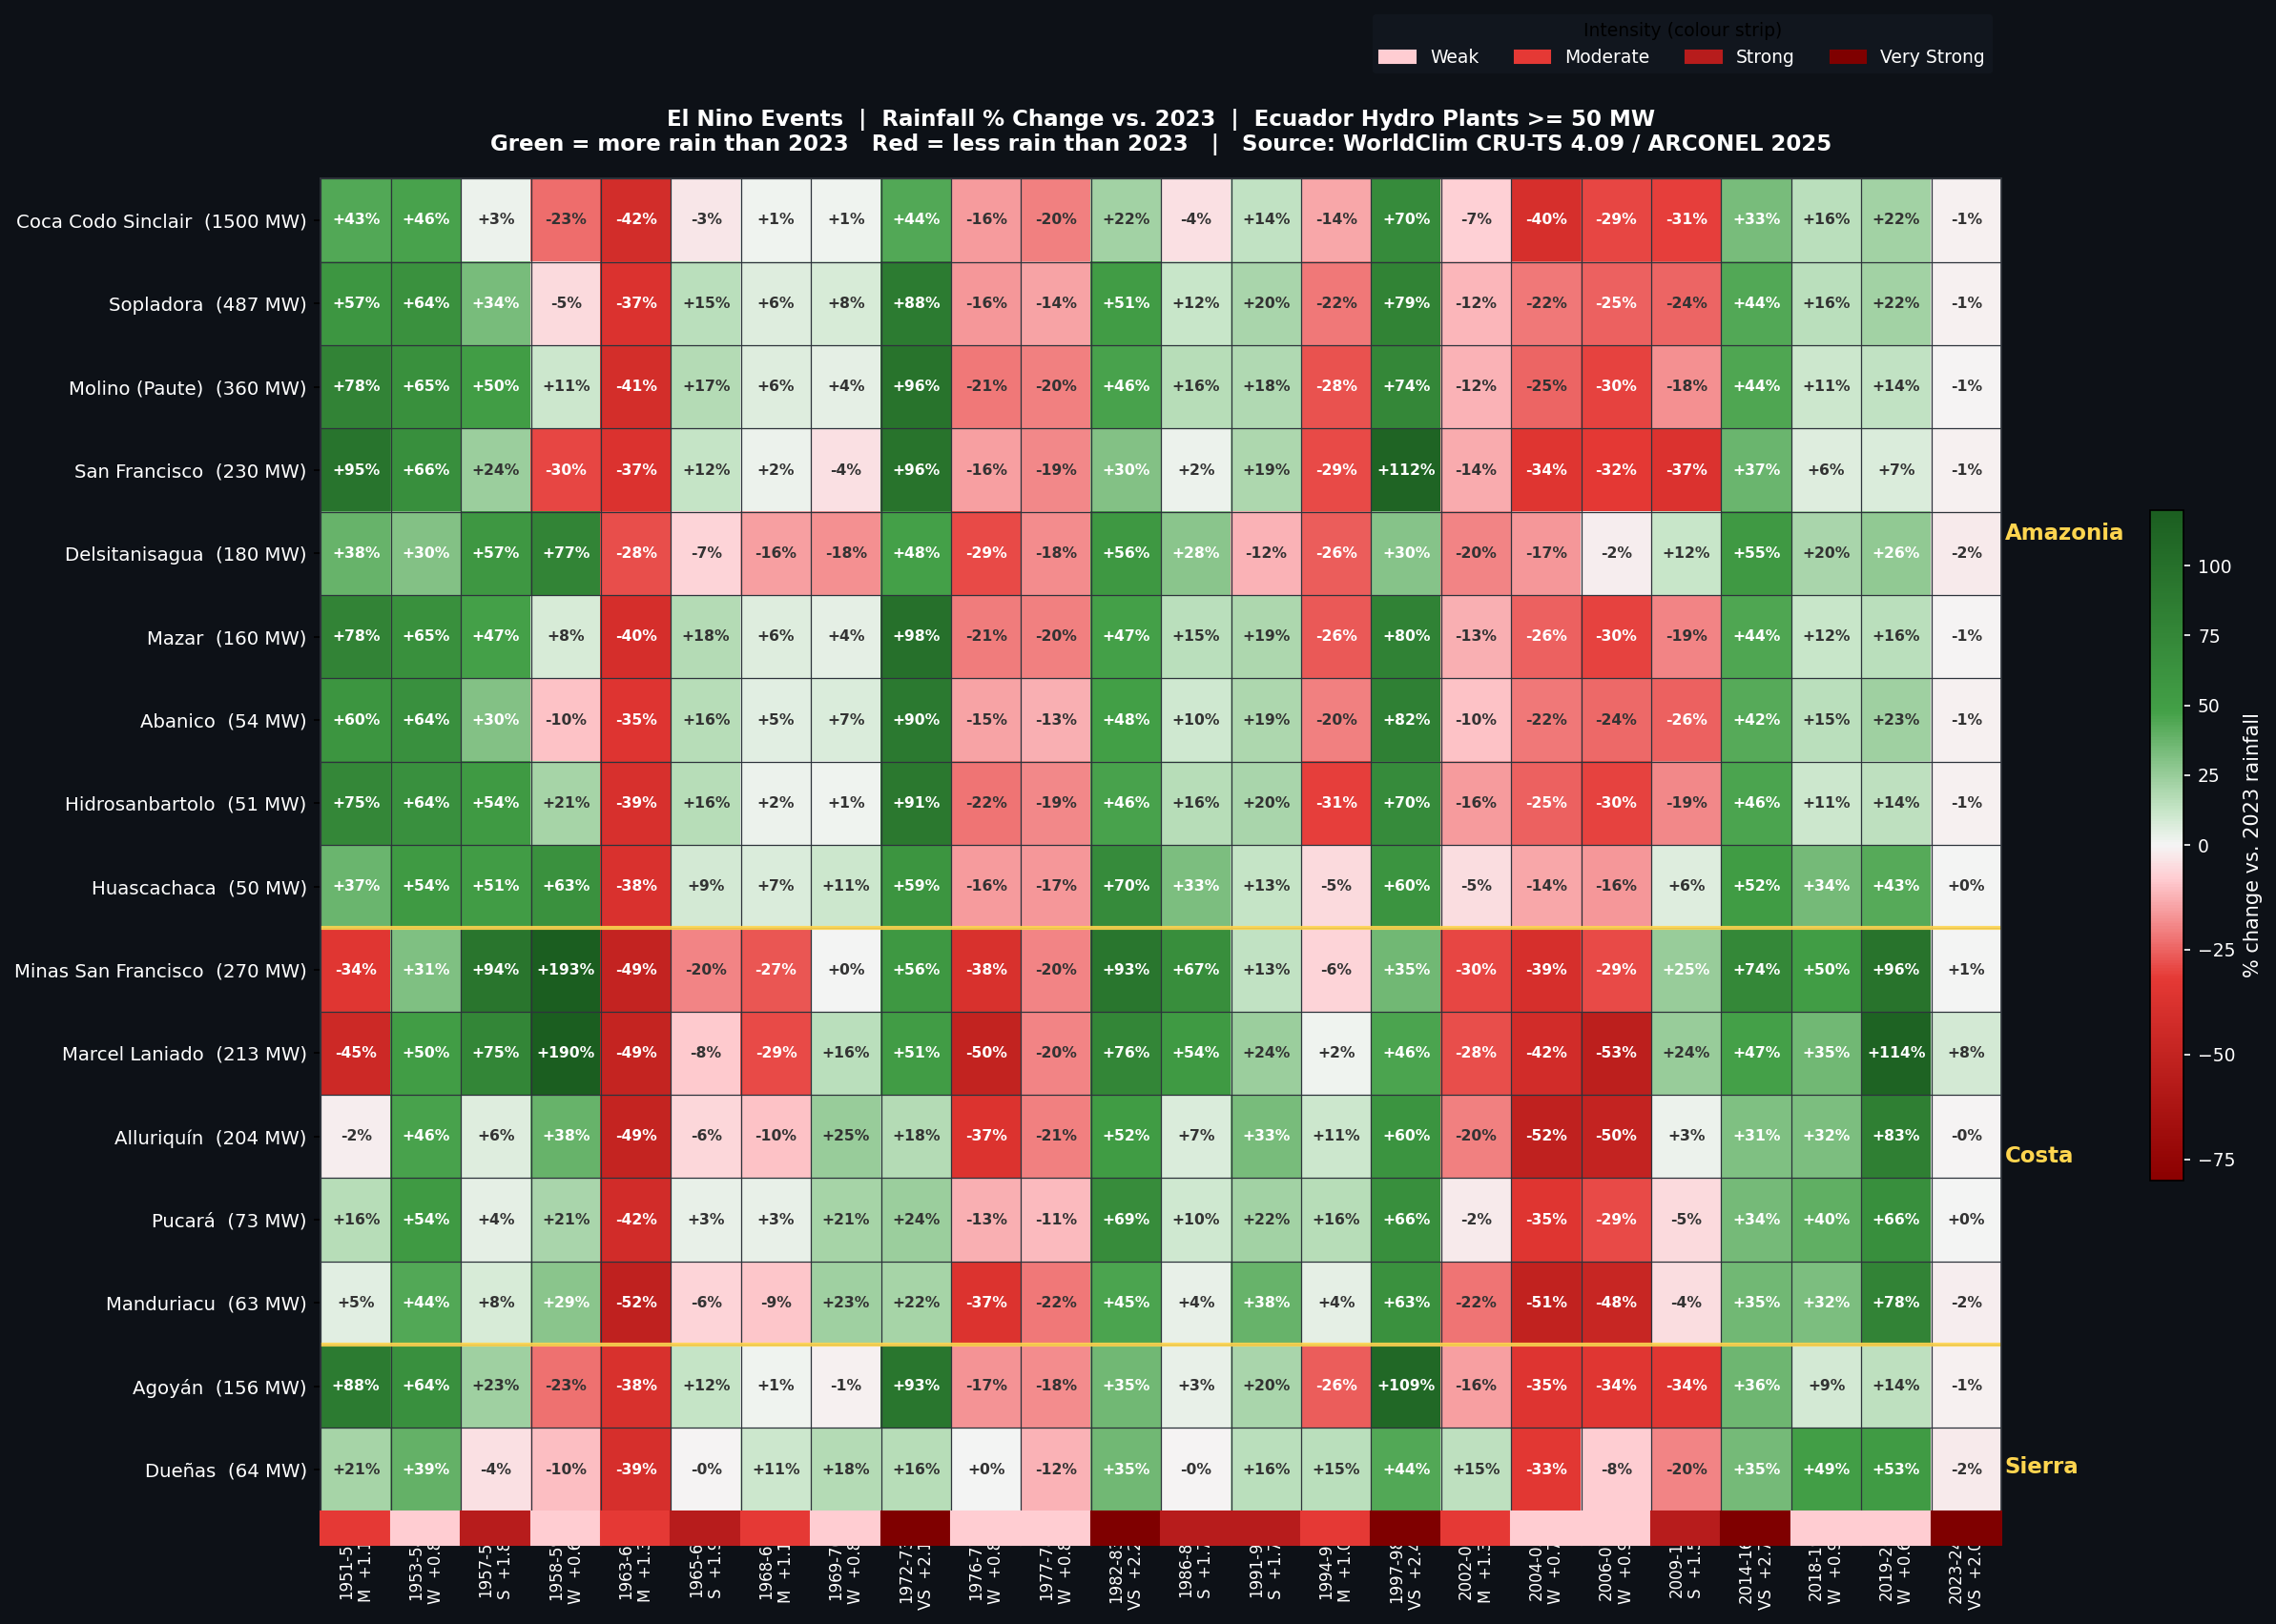
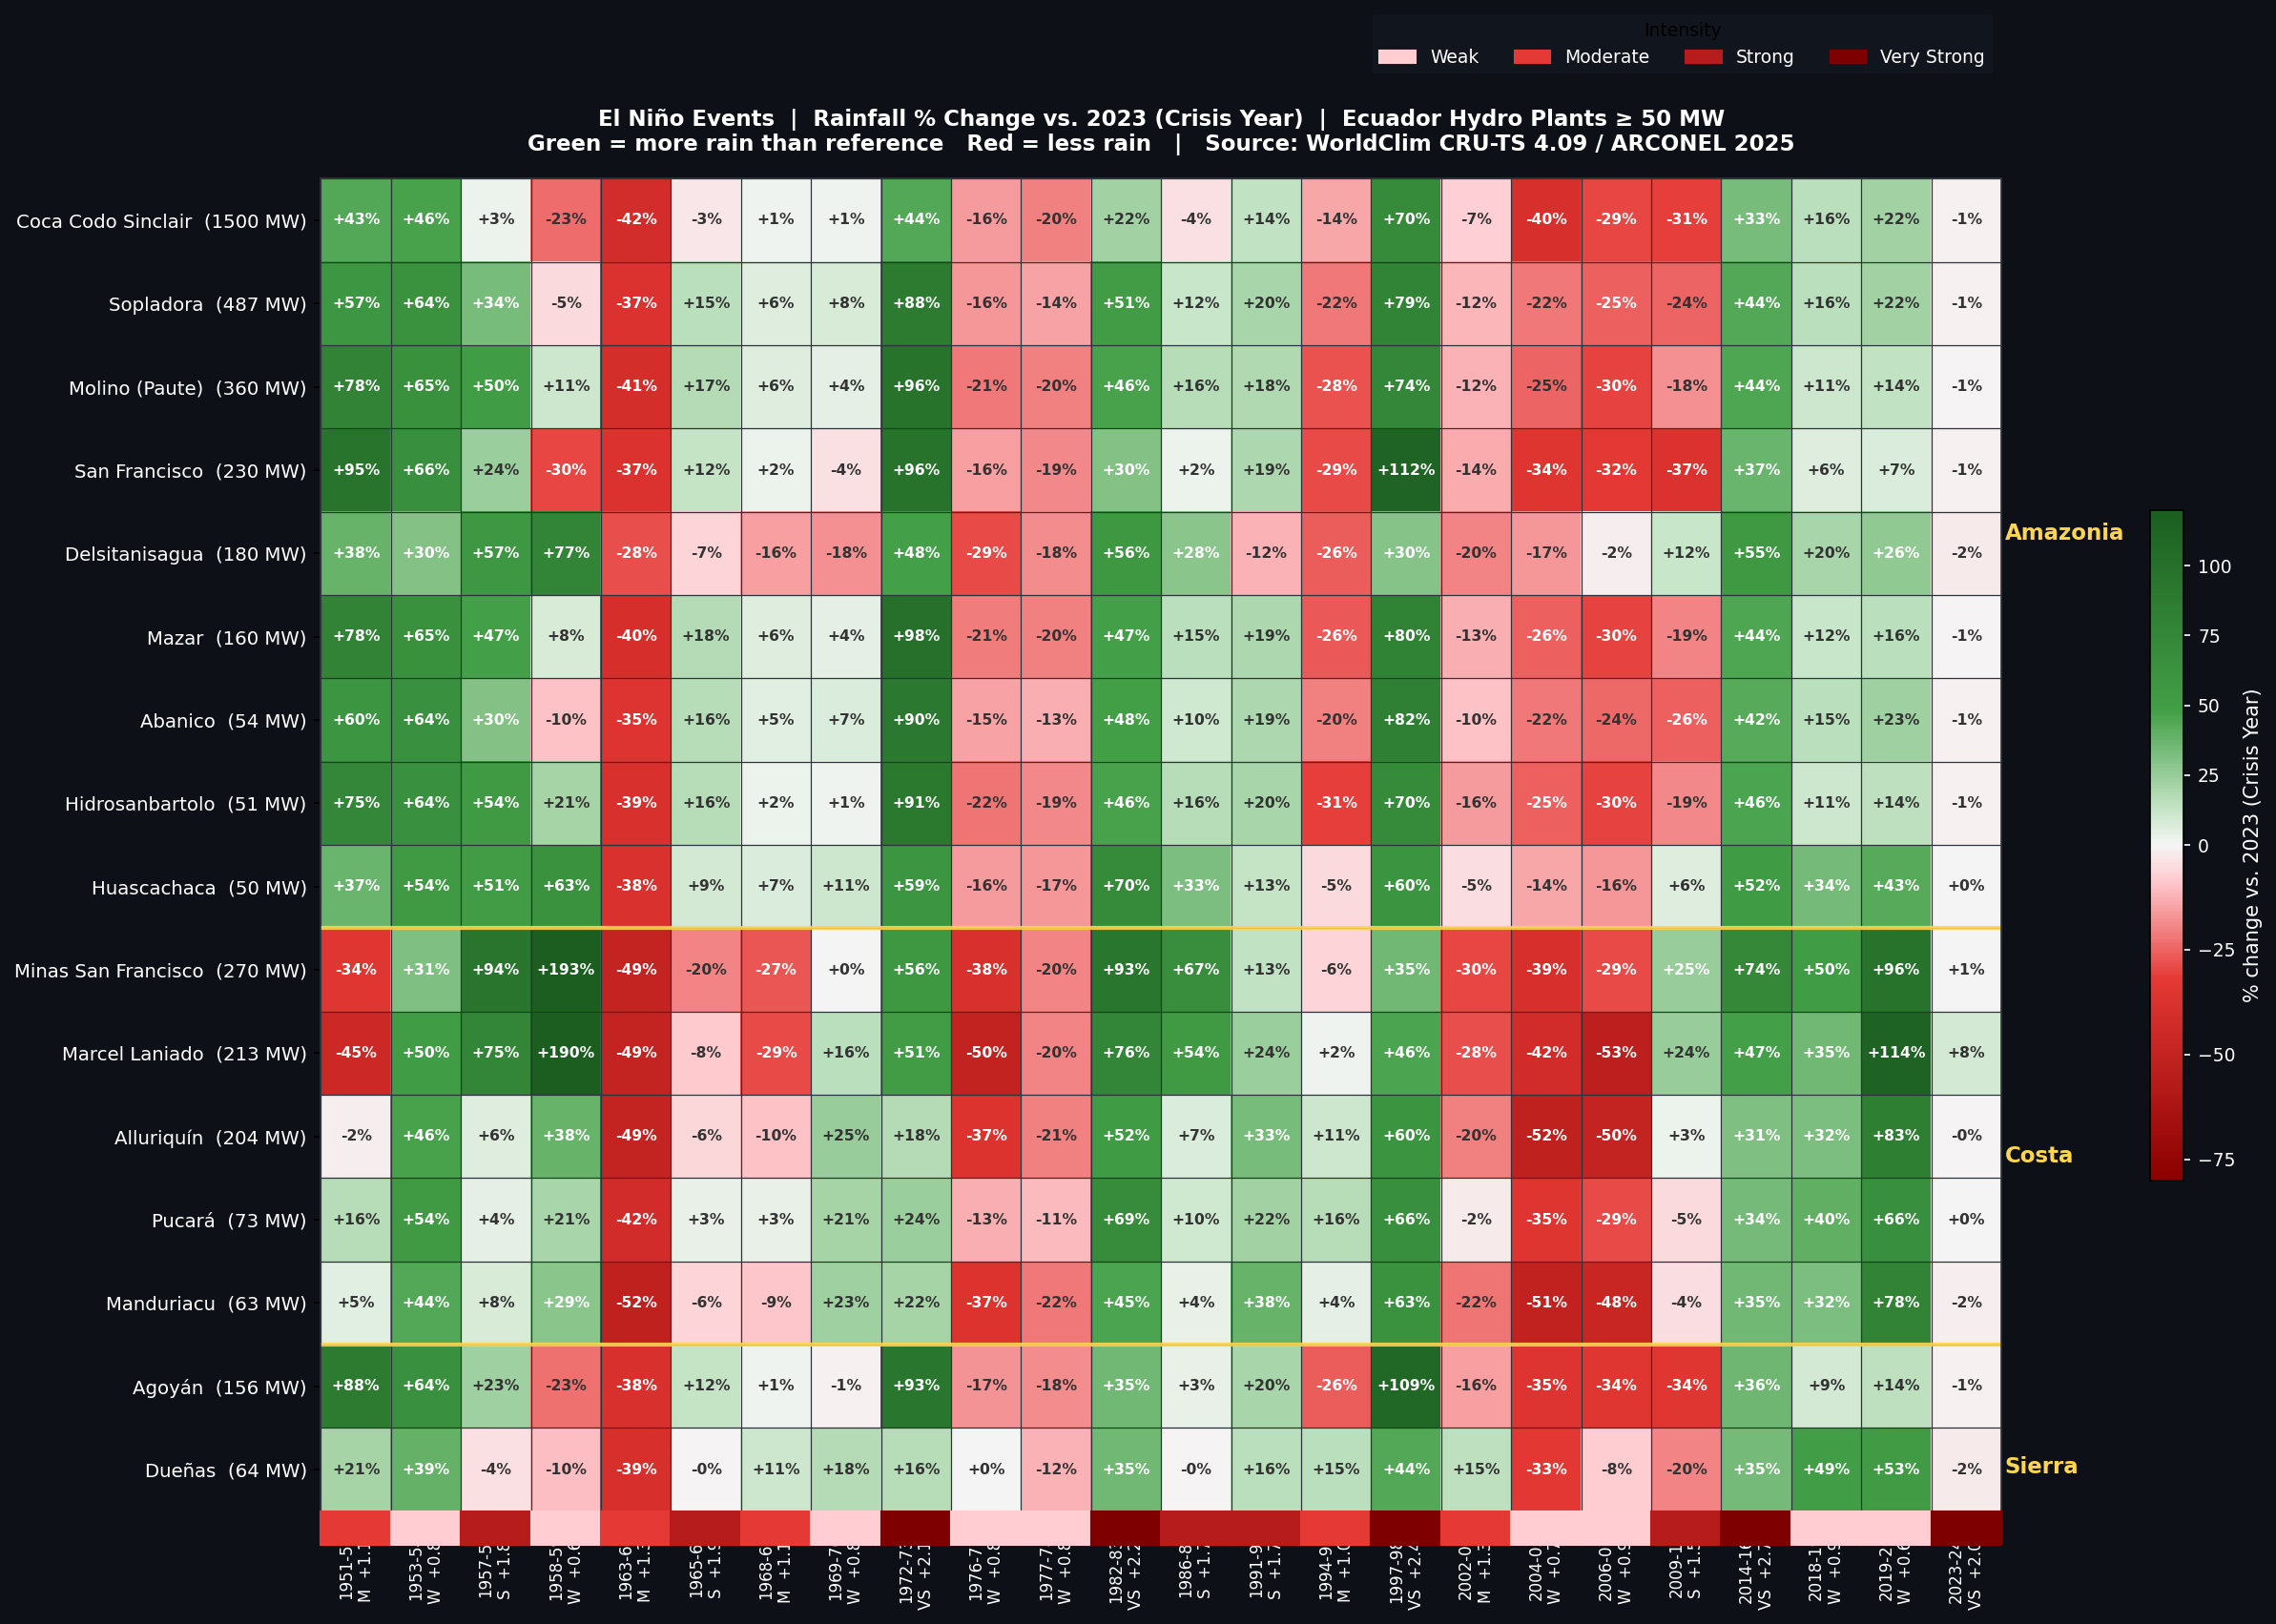
feat(electricidad): 4-toggle heatmap for El Nino + La Nina, MW-weighted stats
- Replace iframe El Nino heatmap with PNG-swap toggle (vs 2023 / 2019 / 2018-23 avg / full avg)
- Add identical toggle to La Nina card
- Update stat boxes to MW-weighted episode counts
- Add Aequus nav (back-to-menu + dashboards dropdown)
- Add 6 new heatmap PNGs (4 El Nino + 4 La Nina, 2 already existed)

Changed region(s): [[0.2171, 0.0622, 0.8064, 0.0934], [0.9614, 0.4357, 0.9925, 0.4979]]

diff --git a/electricidad/index.html b/electricidad/index.html
@@ -103,6 +103,24 @@
     font-weight:300;opacity:.8;
   }
   #lb-close:hover{opacity:1}
+
+  /* ── Heatmap reference toggle ── */
+  .ref-btn{
+    padding:3px 11px;border:none;background:transparent;
+    font-size:10.5px;font-weight:400;color:#777;cursor:pointer;
+    transition:background .15s,color .15s;white-space:nowrap;
+  }
+  .ref-btn:hover{background:#EBEBEB;color:#333}
+  .ref-btn.ref-active{background:#B71C1C;color:#fff;font-weight:500}
+  .ref-btn-ln{
+    padding:3px 11px;border:none;background:transparent;
+    font-size:10.5px;font-weight:400;color:#777;cursor:pointer;
+    transition:background .15s,color .15s;white-space:nowrap;
+  }
+  .ref-btn-ln:hover{background:#EBEBEB;color:#333}
+  .ref-btn-ln.ref-ln-active{background:#1565C0;color:#fff;font-weight:500}
+
+  /* ── Aequus nav ── */
   .ae-nav-home{padding:3px 11px;border-radius:10px;border:1px solid #DDD;font-size:11px;font-weight:500;color:#0f2040;background:#F5F5F5;text-decoration:none;white-space:nowrap;transition:background .12s}
   .ae-nav-home:hover{background:#E0E0E0}
   .ae-nav-dd-wrap{position:relative}
@@ -113,6 +131,7 @@
   .ae-nav-dd a{display:block;padding:9px 16px;font-size:12px;color:#1a2332;text-decoration:none;transition:background .1s}
   .ae-nav-dd a:hover{background:#f0f4fa}
   .ae-nav-dd a.ae-current{font-weight:700;color:#0f2040;background:#e8edf4}
+
 </style>
 </head>
 <body>
@@ -120,7 +139,7 @@
 <!-- ── Navigation ── -->
 <nav id="navbar">
   <a href="../index.html" class="ae-nav-home">&#8592; Menu</a>
-  <div class="ae-nav-dd-wrap">
+  <div class="ae-nav-dd-wrap" style="margin-right:16px">
     <button class="ae-nav-dd-btn" onclick="aeToggleNav(this)">Dashboards &#9660;</button>
     <div class="ae-nav-dd">
       <a href="../homicidios/index.html">&#128506;&#xFE0F; Homicidios Ecuador</a>
@@ -129,7 +148,6 @@
       <a href="../precios-commodities/index.html">&#128722; Diesel y WTI</a>
     </div>
   </div>
-  <div style="width:1px;height:20px;background:#E0E0E0;flex-shrink:0"></div>
   <div class="brand">
     <div class="brand-dot"></div>
     <div>
@@ -178,27 +196,57 @@
   <!-- Ecuador heatmaps -->
   <div id="hmap-ecuador" class="hmap-row">
     <div class="hmap-card">
-      <div class="hmap-header">
-        <span class="hmap-badge badge-en">El Ni&#241;o</span>
-        <div>
-          <div class="hmap-title">Rainfall Change During El Ni&#241;o Events vs. 2023  |  Ecuador Hydro Plants &#8805; 50 MW</div>
-          <div class="hmap-sub">24 events · 1951–2024 · WorldClim CRU-TS 4.09 at plant coordinates · Click to enlarge</div>
+      <div class="hmap-header" style="flex-direction:column;align-items:flex-start;gap:8px;">
+        <div style="display:flex;align-items:center;gap:10px;width:100%;">
+          <span class="hmap-badge badge-en">El Ni&#241;o</span>
+          <div>
+            <div class="hmap-title">Rainfall Change During El Ni&#241;o Events  |  Ecuador Hydro Plants &#8805; 50 MW</div>
+            <div class="hmap-sub">24 events · 1951–2024 · WorldClim CRU-TS 4.09 at plant coordinates · Click to enlarge</div>
+          </div>
+        </div>
+        <div style="display:flex;align-items:center;gap:8px;flex-wrap:wrap;">
+          <span style="font-size:10px;font-weight:500;color:#777;">Reference:</span>
+          <div style="display:flex;background:#F5F5F5;border:1px solid #E0E0E0;border-radius:16px;overflow:hidden;">
+            <button class="ref-btn ref-active" data-ref="2023"    onclick="setHmapRef(this)">vs 2023 (crisis)</button>
+            <button class="ref-btn"            data-ref="2019"    onclick="setHmapRef(this)">vs 2019 (wet year)</button>
+            <button class="ref-btn"            data-ref="avg1823" onclick="setHmapRef(this)">vs 2018–2023 avg</button>
+            <button class="ref-btn"            data-ref="full"    onclick="setHmapRef(this)">vs full sample avg</button>
+          </div>
+        </div>
+        <div style="display:flex;gap:8px;width:100%;align-items:stretch;">
+          <div id="hmap-ref-note" style="font-size:10px;color:#666;background:#FAFAFA;border:1px solid #EBEBEB;border-radius:6px;padding:5px 10px;line-height:1.55;flex:1;"></div>
+          <div id="hmap-ref-stat" style="font-size:10px;color:#444;background:#FAFAFA;border:1px solid #EBEBEB;border-radius:6px;padding:5px 12px;line-height:1.55;white-space:nowrap;text-align:center;display:flex;flex-direction:column;justify-content:center;gap:1px;flex-shrink:0;"></div>
         </div>
       </div>
       <div class="hmap-img-wrap">
-        <img class="hmap-img" src="figures/heatmap_elnino_vs_2023.png" alt="Ecuador El Nino heatmap" title="Click to enlarge"/>
+        <img class="hmap-img" id="elnino-hmap-img" src="figures/heatmap_elnino_vs_2023.png" alt="Ecuador El Nino heatmap" title="Click to enlarge"/>
       </div>
     </div>
     <div class="hmap-card">
-      <div class="hmap-header">
-        <span class="hmap-badge badge-ln">La Ni&#241;a</span>
-        <div>
-          <div class="hmap-title">Rainfall Change During La Ni&#241;a Events vs. 2023  |  Ecuador Hydro Plants &#8805; 50 MW</div>
-          <div class="hmap-sub">18 events · 1951–2023 · WorldClim CRU-TS 4.09 at plant coordinates · Click to enlarge</div>
+      <div class="hmap-header" style="flex-direction:column;align-items:flex-start;gap:8px;">
+        <div style="display:flex;align-items:center;gap:10px;width:100%;">
+          <span class="hmap-badge badge-ln">La Ni&#241;a</span>
+          <div>
+            <div class="hmap-title">Rainfall Change During La Ni&#241;a Events  |  Ecuador Hydro Plants &#8805; 50 MW</div>
+            <div class="hmap-sub">18 events · 1951–2024 · WorldClim CRU-TS 4.09 at plant coordinates · Click to enlarge</div>
+          </div>
+        </div>
+        <div style="display:flex;align-items:center;gap:8px;flex-wrap:wrap;">
+          <span style="font-size:10px;font-weight:500;color:#777;">Reference:</span>
+          <div style="display:flex;background:#F5F5F5;border:1px solid #E0E0E0;border-radius:16px;overflow:hidden;">
+            <button class="ref-btn-ln ref-ln-active" data-ref="2023"    onclick="setLninaRef(this)">vs 2023 (crisis)</button>
+            <button class="ref-btn-ln"               data-ref="2019"    onclick="setLninaRef(this)">vs 2019 (wet year)</button>
+            <button class="ref-btn-ln"               data-ref="avg1823" onclick="setLninaRef(this)">vs 2018–2023 avg</button>
+            <button class="ref-btn-ln"               data-ref="full"    onclick="setLninaRef(this)">vs full sample avg</button>
+          </div>
+        </div>
+        <div style="display:flex;gap:8px;width:100%;align-items:stretch;">
+          <div id="lnina-ref-note" style="font-size:10px;color:#666;background:#FAFAFA;border:1px solid #EBEBEB;border-radius:6px;padding:5px 10px;line-height:1.55;flex:1;"></div>
+          <div id="lnina-ref-stat" style="font-size:10px;color:#444;background:#FAFAFA;border:1px solid #EBEBEB;border-radius:6px;padding:5px 12px;line-height:1.55;white-space:nowrap;text-align:center;display:flex;flex-direction:column;justify-content:center;gap:1px;flex-shrink:0;"></div>
         </div>
       </div>
       <div class="hmap-img-wrap">
-        <img class="hmap-img" src="figures/heatmap_lanina_vs_2023.png" alt="Ecuador La Nina heatmap" title="Click to enlarge"/>
+        <img class="hmap-img" id="lanina-hmap-img" src="figures/heatmap_lanina_vs_2023.png" alt="Ecuador La Nina heatmap" title="Click to enlarge"/>
       </div>
     </div>
   </div>
@@ -304,7 +352,72 @@
   document.getElementById('lb-close').addEventListener('click', () => lb.classList.remove('open'));
   lb.addEventListener('click', e => { if (e.target === lb) lb.classList.remove('open'); });
   document.addEventListener('keydown', e => { if (e.key === 'Escape') lb.classList.remove('open'); });
+
+  // ── Heatmap reference toggle ───────────────────────────────────────────────
+  const HMAP_NOTES = {
+    "2023":    "<strong>vs 2023 — Crisis year.</strong> Year Ecuador's electricity supply could not meet demand. Green = more rainfall than the crisis threshold; red = would have been an even worse shortfall.",
+    "2019":    "<strong>vs 2019 — Wet year.</strong> Wettest recent year in WorldClim (Paute flows +61–71% above 2023). Closest proxy for 2025 record hydro conditions. Green = wetter than good operating conditions.",
+    "avg1823": "<strong>vs 2018–2023 avg — Modern complex baseline.</strong> Full operating period of the modern hydro complex (Sopladora ~2018, MSF 2019). Most representative normal operating reference.",
+    "full":    "<strong>vs full sample avg (1951–2024) — Climatological mean.</strong> Average across the entire WorldClim record. Shows each El Niño event vs. the long-run historical norm.",
+  };
+
+  const HMAP_STATS = {
+    "2023":    { pct: 54.2, n: 13, of: 24, label: "vs 2023 crisis level" },
+    "2019":    { pct: 25.0, n:  6, of: 24, label: "vs 2019 wet-year level" },
+    "avg1823": { pct: 45.8, n: 11, of: 24, label: "vs 2018–2023 average" },
+    "full":    { pct: 45.8, n: 11, of: 24, label: "vs full sample average" },
+  };
+
+  function setHmapRef(btn) {
+    document.querySelectorAll('.ref-btn').forEach(b => b.classList.remove('ref-active'));
+    btn.classList.add('ref-active');
+    const ref = btn.dataset.ref;
+    document.getElementById('elnino-hmap-img').src = `figures/heatmap_elnino_vs_${ref}.png`;
+    document.getElementById('hmap-ref-note').innerHTML = HMAP_NOTES[ref];
+    const s = HMAP_STATS[ref];
+    const col = s.pct >= 50 ? '#2E7D32' : '#B71C1C';
+    document.getElementById('hmap-ref-stat').innerHTML =
+      `<span style="font-size:18px;font-weight:700;color:${col};">${s.pct.toFixed(1)}%</span>` +
+      `<span style="font-size:9px;color:#888;">MW-weighted episodes above<br>${s.label}</span>` +
+      `<span style="font-size:9px;color:#aaa;">(${s.n} of ${s.of} events)</span>`;
+  }
+
+  setHmapRef(document.querySelector('.ref-btn.ref-active'));
+
+  // ── La Niña reference toggle ───────────────────────────────────────────────
+  const LNINA_NOTES = {
+    "2023":    "<strong>vs 2023 — Crisis year.</strong> Year Ecuador's electricity supply could not meet demand. Green = more rainfall than the crisis threshold; red = would have been an even worse shortfall.",
+    "2019":    "<strong>vs 2019 — Wet year.</strong> Wettest recent year in WorldClim (Paute flows +61–71% above 2023). Closest proxy for 2025 record hydro conditions. Green = wetter than good operating conditions.",
+    "avg1823": "<strong>vs 2018–2023 avg — Modern complex baseline.</strong> Full operating period of the modern hydro complex (Sopladora ~2018, MSF 2019). Most representative normal operating reference.",
+    "full":    "<strong>vs full sample avg (1951–2024) — Climatological mean.</strong> Average across the entire WorldClim record. Shows each La Niña event vs. the long-run historical norm.",
+  };
+
+  const LNINA_STATS = {
+    "2023":    { pct: 52.9, n:  9, of: 17, label: "vs 2023 crisis level" },
+    "2019":    { pct:  5.9, n:  1, of: 17, label: "vs 2019 wet-year level" },
+    "avg1823": { pct: 47.1, n:  8, of: 17, label: "vs 2018–2023 average" },
+    "full":    { pct: 35.3, n:  6, of: 17, label: "vs full sample average" },
+  };
+
+  function setLninaRef(btn) {
+    document.querySelectorAll('.ref-btn-ln').forEach(b => b.classList.remove('ref-ln-active'));
+    btn.classList.add('ref-ln-active');
+    const ref = btn.dataset.ref;
+    document.getElementById('lanina-hmap-img').src = `figures/heatmap_lanina_vs_${ref}.png`;
+    document.getElementById('lnina-ref-note').innerHTML = LNINA_NOTES[ref];
+    const s = LNINA_STATS[ref];
+    const col = s.pct >= 50 ? '#2E7D32' : '#B71C1C';
+    document.getElementById('lnina-ref-stat').innerHTML =
+      `<span style="font-size:18px;font-weight:700;color:${col};">${s.pct.toFixed(1)}%</span>` +
+      `<span style="font-size:9px;color:#888;">MW-weighted episodes above<br>${s.label}</span>` +
+      `<span style="font-size:9px;color:#aaa;">(${s.n} of ${s.of} events)</span>`;
+  }
+
+  setLninaRef(document.querySelector('.ref-btn-ln.ref-ln-active'));
 </script>
-<script>function aeToggleNav(btn){btn.nextElementSibling.classList.toggle('open')}document.addEventListener('click',function(e){if(!e.target.closest('.ae-nav-dd-wrap'))document.querySelectorAll('.ae-nav-dd').forEach(function(d){d.classList.remove('open')})});</script>
+<script>
+function aeToggleNav(btn){btn.nextElementSibling.classList.toggle('open')}
+document.addEventListener('click',function(e){if(!e.target.closest('.ae-nav-dd-wrap'))document.querySelectorAll('.ae-nav-dd').forEach(function(d){d.classList.remove('open')})});
+</script>
 </body>
 </html>